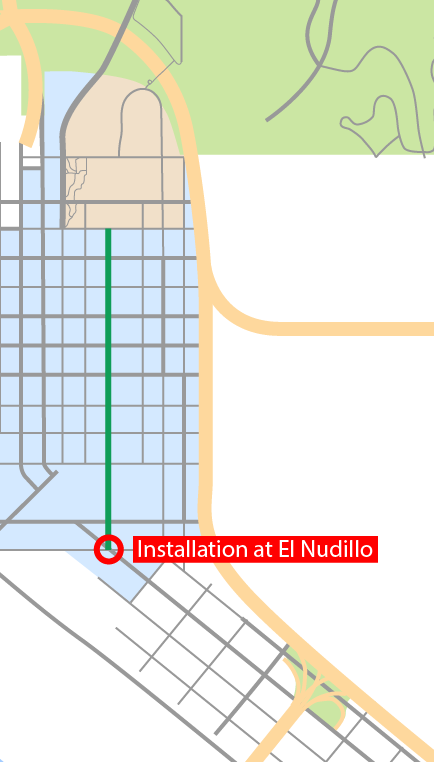
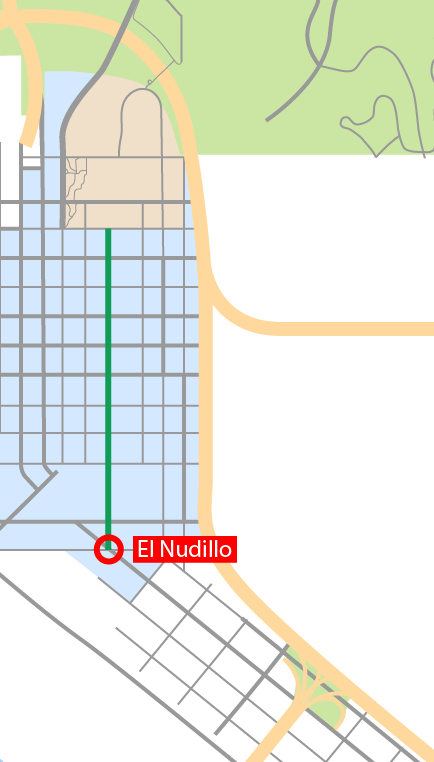
updated map and caption

Changed region(s): [[0.3295, 0.6942, 0.8687, 0.7546]]

diff --git a/resources/views/about.blade.php b/resources/views/about.blade.php
@@ -21,7 +21,7 @@
         <div class="col-md-3">
             <figure>
                 <img src="{{ asset('img/vector-map.png') }}" alt="project map" class="img-responsive">
-                <figcaption>A map of the Park Link project showing the four design challenges community leaders are exploring. The blocks approved for 14th Street Master Plan are marked in green.</figcaption>
+                <figcaption>A map of the Park Link project area showing the El Nudillo challenge. The blocks approved for 14th Street Master Plan are marked in green.</figcaption>
             </figure>
         </div> <!-- .col -->
     </div> <!-- .row -->
